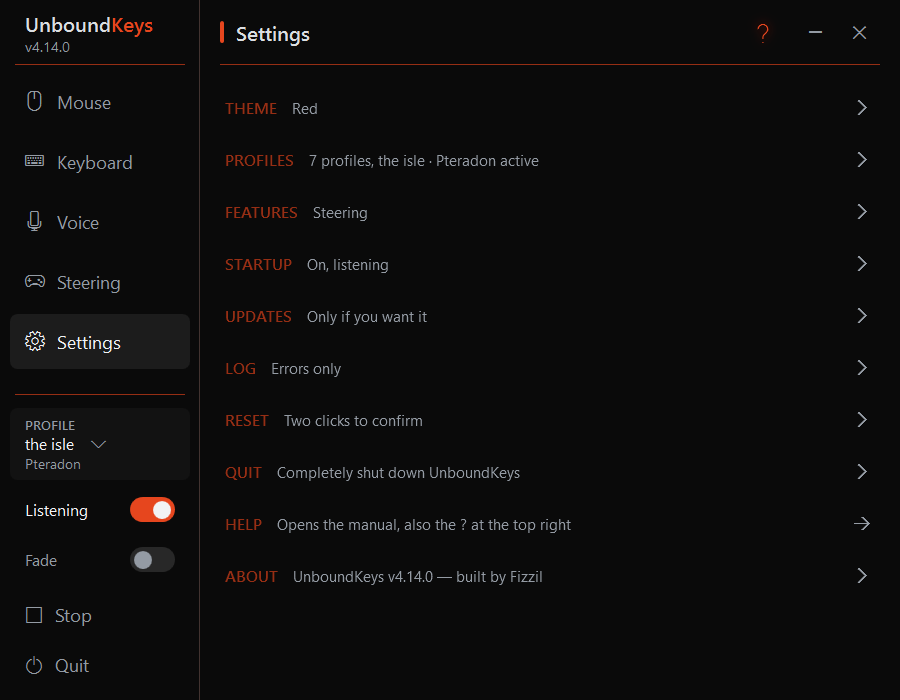
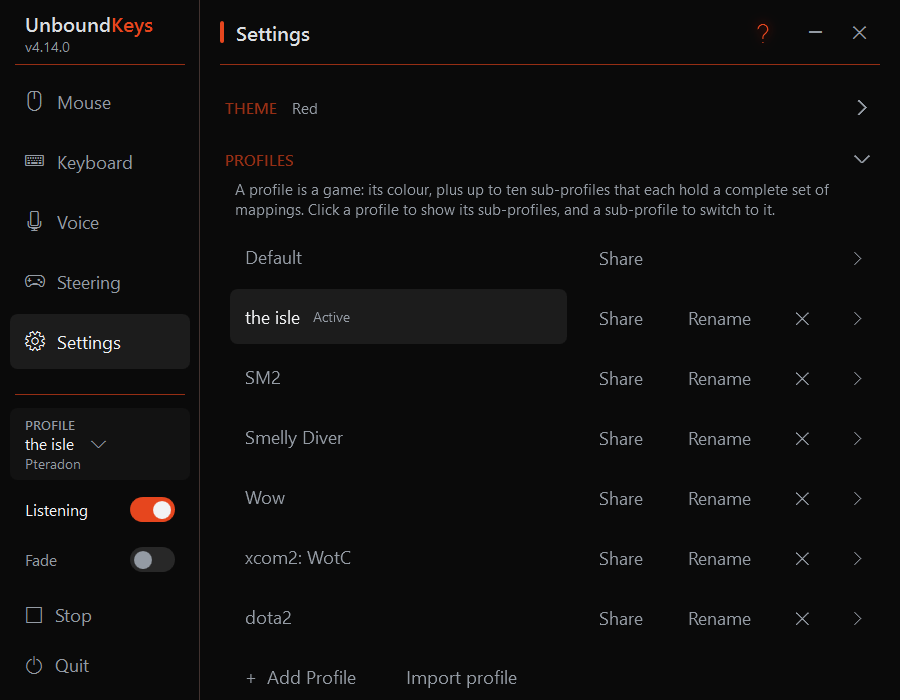
Settings picture with Profiles open (Share, Import profile); Steering picture at 4.14.0
The capture tool gained -FoldProfile (folds the active profile so every
row shows), -SteeringSetup (applies the Default racing setup for the
Steering picture; restore the settings file afterwards) and takes the
keyboard's pictures with the pointer moved off it.

diff --git a/README.md b/README.md
@@ -11,7 +11,7 @@ Remap mouse buttons, spoken words and an on-screen keyboard to keyboard keys, wi
 </p>
 <p float="left">
   <img src="Assets/screenshots/UBK-Editor.png" width="32%" alt="A mouse button's editor: its keys, Tap / Repeat / Rotation / Hold, duration, Infinite, the Infinite pause, and the Starts and stops steering and Double press switches at the bottom" />
-  <img src="Assets/screenshots/UBK-Settings.png" width="32%" alt="Settings: fold-away sections, each summarising its state while closed, with Features for the optional extras and a one-click Help" />
+  <img src="Assets/screenshots/UBK-Settings.png" width="32%" alt="Settings with the Profiles section open: every profile with its Share, Rename and delete buttons, then Add Profile and Import profile" />
   <img src="Assets/screenshots/UBK-Help.png" width="32%" alt="The Help page: the manual in one page, one fold per topic, with Back to where you opened it" />
 </p>
 <p float="left">
